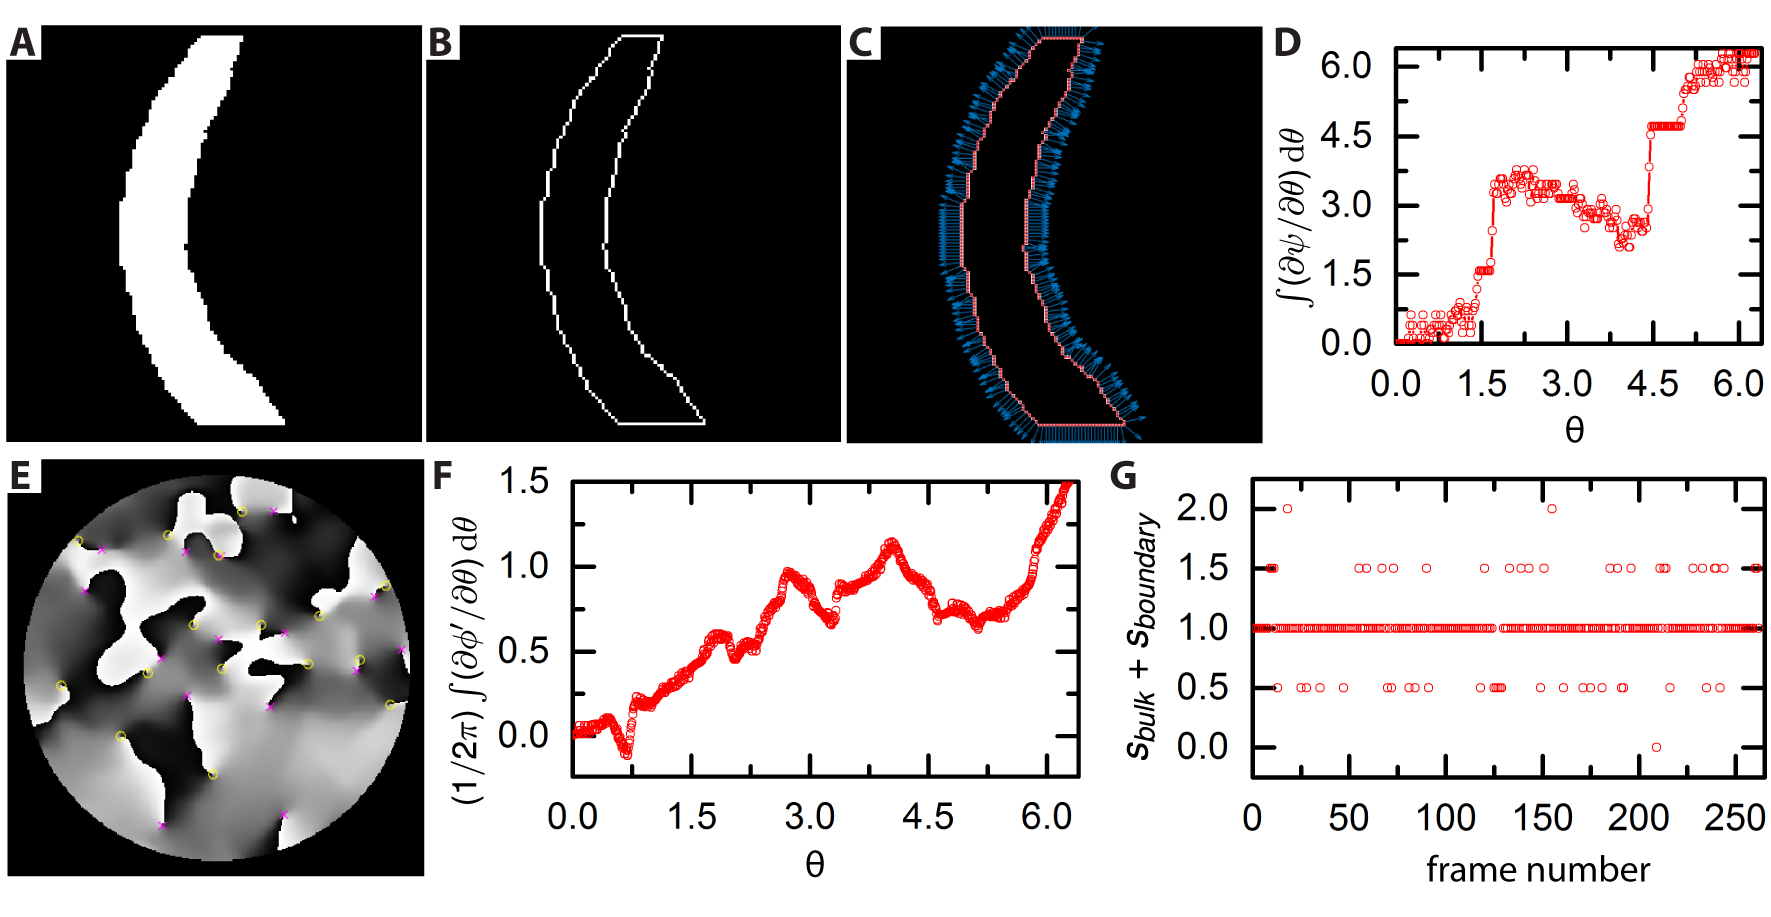
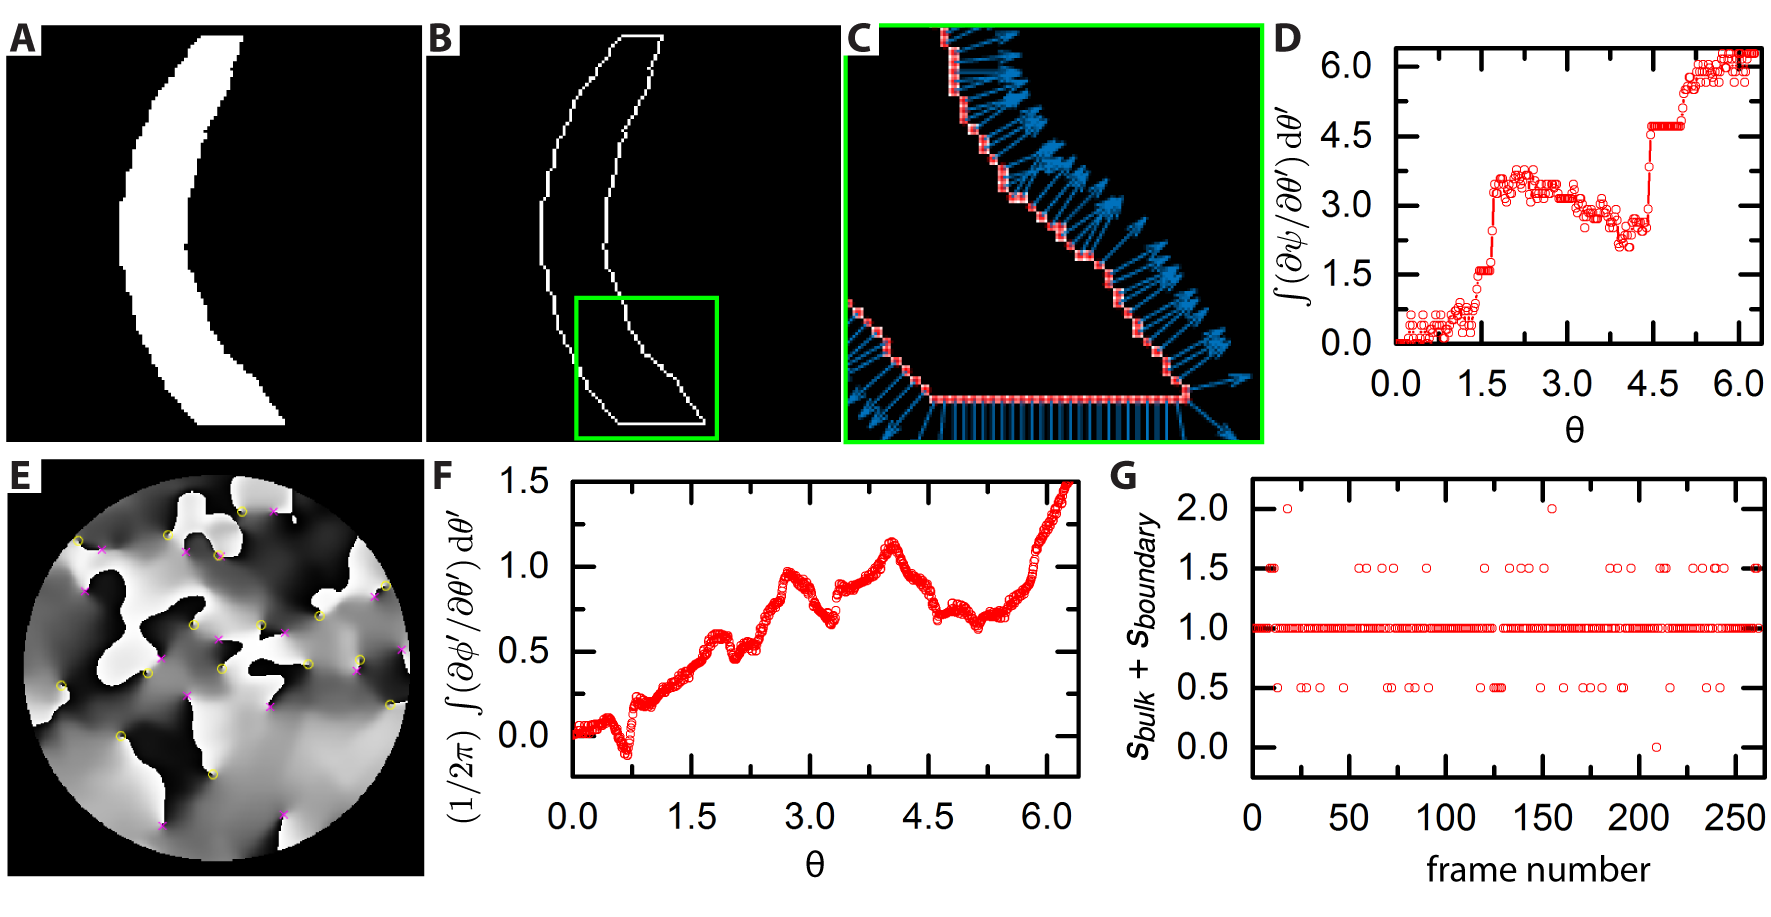
figure edits and reference

diff --git a/document/chapter3.tex b/document/chapter3.tex
@@ -18,9 +18,10 @@ Here, we consider how activity affects the interplay between nematic order, geom
   \caption{Interactions in extensile and contractile nematics.
   (A,C), Two-particle interaction for extensile (A) and contractile (C) mesogens.
   The arrows represent time.
-  (B,D), The homogeneous state is unstable to distortions, with (B) extensile nematics unstable to bend and (D) contractile nematics unstable to splay.
+  (B,D), The interactions in (A,C) applied to a collection of particles in (B,D), respectively.
+  The homogeneous state is unstable to distortions, with (B) extensile nematics unstable to bend and (D) contractile nematics unstable to splay.
   The instability leads to the formation of an $s = + 1/2$ and $s = -1/2$ defect pair, indicated by ${\color{red} \bullet}$,${\color{blue} \bullet}$, respectively.}\label{f:3-ActiveInteraction}
-\end{figure}\fxnote{Clarify panel D}
+\end{figure}
 
 Much like equilibrium nematics, the individual mesogens of active nematic materials are anisotropic and thus the material possesses a nematic phase; however, the addition of activity to nematic order modifies the interaction between the mesogens.
 With the exception of bacteria introduced into lyotropic liquid crystals~\cite{RN86}, to date the majority of experimental and theoretical work on active nematics has taken place in 2D.
@@ -671,8 +672,8 @@ Thus, we can determine if we have systematic error in our defect detection routi
   \centering
   \includegraphics{figures/C3/Ch3-Figs_EdgeChargeEx.png}
   \caption{Schematic illustration of boundary and bulk charge.
-  (A,B,C) An example director field in a circular region drawn in a fixed frame and the director field at the boundary drawn in the Frennet-Serret frame.
-  The director orientation $\phi$ in the fixed frame is taken counterclockwise from the horizontal and the director orientation $\phi'$ in the Frennet-Serret frame is taken clockwise from the horizontal.
+  (A,B,C) An example director field in a circular region drawn in a fixed frame and the director field at the boundary drawn in the Frenet-Serret frame.
+  The director orientation $\phi$ in the fixed frame is taken counterclockwise from the horizontal and the director orientation $\phi'$ in the Frenet-Serret frame is taken clockwise from the horizontal.
   For the defect-free director field in (A), integrating $\textrm{d}\phi$ from $\Theta = 0$ to $\Theta = 2\pi$ yields a $s_{bulk} = 0$, while integrating $\textrm{d}\phi'$ from $\Theta = 0$ to $\Theta = 2\pi$ yields a $s_{boundary} = 1$, such that $s_{bulk} + s_{boundary}=1$.
   Performing the same calculations for the director field containing the (B) $s = +1$ defect and (C) $s = -1/2$ defect yields $s_{bulk} + s_{boundary}= 1 + 0= 1$, and $s_{bulk} + s_{boundary}= -1/2 + 3/2 = 1$, respectively.}\label{f:3-EdgeChargeEx}
 \end{figure}
@@ -695,14 +696,14 @@ Finally, we calculate $\phi' = \psi-\phi$ and numerically evaluate Eq.~\ref{e:3-
   \centering
   \includegraphics{figures/C3/Ch3-Figs_EdgeChargeErr.png}
   \caption{Boundary charge and defect detection error on active nematic toroids.
-  (A-D) Validation of the Frennet-Serret frame.
-  For the example mask in (A), we find the (B) boundary, estimate the unit tangent vectors, and then rotate the tangent vectors by $-\pi/2$ to get the (C) unit normal vectors and complete the Frennet-Serret frame.
-  We check the Frennet-Serret frame by (C) integrating the change in the unit normal vector along the boundary, $\textrm{d}(\psi - \pi/2) = \textrm{d}\psi = (\partial \psi/\partial \theta) \textrm{d}\theta$, and see that the integral goes to $2 \pi$, as desired.
+  (A-D) Validation of the Frenet-Serret frame.
+  For the example mask in (A), we find the (B) boundary, estimate the unit tangent vectors, and then rotate the tangent vectors by $-\pi/2$ to get the (C) unit normal vectors and complete the Frenet-Serret frame.
+  We check the Frenet-Serret frame by (C) integrating the change in the unit normal vector along the boundary, $\int\limits_{0}^{\theta} \textrm{d}(\psi - \pi/2) = \int\limits_{0}^{\theta} \textrm{d}\psi = \int\limits_{0}^{\theta} (\partial \psi/\partial \theta') \textrm{d}\theta'$, and see that the integral goes to $2 \pi$ as $\theta$ goes to $2\pi$, as desired.
   (E) Circular region containing a director field from an active nematic toroid with $s = \pm 1/2$ defects found with our algorithm and labeled by (${\color{magenta} \times}$), (${\color{yellow} \circ}$), respectively, giving $s_{bulk} = \sum_i s_i = -1/2$.
-  (F) An integral of $\textrm{d}\phi'$ along the boundary yields $s_{boundary} = 3/2$.
+  (F) $\int\limits_{\theta = 0}^{2\pi} \textrm{d}\phi'$ along the boundary yields $s_{boundary} = 3/2$ as $\theta \rightarrow 2 \pi$.
   (G) $s_{bulk} + s_{boundary}$ for 262 frames evaluated using the region in (A) applied to a torus with $\xi = 2.4$ and $a = 268$ $\upmu$m.
   There are 76 frames with $s_{bulk} + s_{boundary} \neq 1$ and 186 frames with $s_{bulk} + s_{boundary} = 1$, leading to $P(error) = 0.29$ and mean$(error) = 0.026$.}\label{f:3-EdgeChargeErr}
-\end{figure}\fxnote{zoom in for panel C, change integrand to over phi' in D,E}
+\end{figure}
 
 We test our routine by first integrating the normal vectors along $\partial \Theta$, as shown in Figure~\ref{f:3-EdgeChargeErr}(D), finding $\oint_{\partial \Theta} \textrm{d}(\psi-\pi/2) = \oint_{\partial \Theta} \textrm{d}\psi = 2\pi$, as desired.
 We now consider a small circular region and validate the algorithm using director fields from our active nematic toroids, as shown in the example in Figure~\ref{f:3-EdgeChargeErr}(E).
@@ -832,7 +833,7 @@ The effect of adjusting the tuning constant for the various M-estimators is easi
   (A) The cost and weight function for a least-squares fit.
   (B-D) The cost and weight functions for a (B) Cauchy M-estimator, a (C) Fair M-estimator, and a (D) GMC M-Estimator, with the tuning parameter for the red curves set to yield 95\% efficiency on a standard normal, and the tuning parameter for the blue curve set to twice the value in the red curve.
   The least-squares estimator in (A) and the Fair estimator in (C) have everywhere convex cost functions, in contrast to the Cauchy and the GMC M-estimators in (B,D), respectively.}\label{f:3-CostFxn}
-\end{figure}\fxnote{italicize cost}
+\end{figure}
 \newpage
 \subsection{Fitting the Weingarten matrix on a surface}
 From a Monge parameterization $h(x,y)$ of a surface~\cite{RN35,RN23}, we start by computing the Delauney triangulation~\cite{RN34} such that every point or pixel in $h(x,y)$ is a vertex in the triangulation.
@@ -879,7 +880,7 @@ This additional information will eventually allow us to re-estimate $\mathbf{k}$
   $\mathbf{R}_{[0]}$ is the point of interest.
   $\mathbf{R}_{[1]}$ and $\mathbf{R}_{[2]}$ are an example pair of points close to the point of interest with $\Delta \mathbf{R}_{[1,2]} = \mathbf{R}_{[2]}-\mathbf{R}_{[1]}$ the displacement vector in the tangent plane of $\mathbf{R}_{[0]}$.
   $\mathbf{k}_{[1]}$ and $\mathbf{k}_{[2]}$ are the unit surface normal vectors associated to $\mathbf{R}_{[1]}$ and $\mathbf{R}_{[2]}$.}\label{f:3-CurvFitSchem}
-\end{figure}\fxnote{bracket the subscripts}
+\end{figure}
 
 We now have a system of three equations to fit with 5 parameters, as $\tensor{L}{_{12}} = \tensor{L}{_{21}}$.
 If we naively expand Eq.~\ref{e:3-Kfit2} directly into three equations,
@@ -950,7 +951,7 @@ Finally, we calculate the Gaussian curvature of at $\mathbf{R}_{[0]}$ taking $K 
   \caption{Example IRLS fit of the curvature at a point on a surface.
   (A,B) Residuals, weights, $\bm{\Lambda}$, $K$, and cost for the (A) Fair M-estimator and (B) GMC M-estimator over multiple iterations, with the iteration number to the left of the residuals.
   The 0$^{\rm th}$ iteration corresponds to the output from the initial least-squares fit.}\label{f:3-IRLSexample}
-\end{figure}\fxnote{change the font on cost}
+\end{figure}
 
 \subsection{Correcting the surface normal vectors}
 We use the fitting weights from the final iteration $(p)$ and the final values in $\bm{\Lambda}$ to correct our initial estimate of $\mathbf{k}_{[0]}$ using a weighted average~\cite{RN31}:
@@ -1099,7 +1100,7 @@ We then plot the relative root-mean-squared (RMS) fluctuations, $\displaystyle{\
 
 We see that like the time-averaged topological charge, all the data collapse onto a line, regardless of the $\xi$ and $a$ variation between the toroids.
 We take the weighted average of a linear fit on a log-log scale to the data from each individual toroid and find a final slope $-0.53 \pm 0.04$ and final intercept $0.02 \pm 0.04$.
-This means that $\displaystyle{\sqrt{\Delta N_{\Theta}^2}} \bigg / \displaystyle {\overbar{N}_{\Theta}} \sim \overbar{N}_{\Theta}^{-1/2}$, the expected result for an equilibrium system subject to number fluctuations~\fxnote{ref Pathria}, again suggesting that activity can play a role akin to temperature in equilibrium systems.
+This means that $\displaystyle{\sqrt{\Delta N_{\Theta}^2}} \bigg / \displaystyle {\overbar{N}_{\Theta}} \sim \overbar{N}_{\Theta}^{-1/2}$, the expected result for an equilibrium system subject to number fluctuations~\cite{RN311}, again suggesting that activity can play a role akin to temperature in equilibrium systems.
 \begin{figure}
   \centering
   \includegraphics{figures/C3/Ch3-Figs_ExpDistribution.png}
@@ -1196,7 +1197,7 @@ In addition, we perform a weighted average on the intercepts directly to get the
   $({\color{teal} \star})$ $\lambda' = 0.28$,
   with the horizontal line corresponding to the experimental value of (B) $C' = 4.3$ for the 144 $\upmu$M ATP toroids and (C) $C' = 6.3$ for the 36 $\upmu$M ATP toroids.
   In both plots, the vertical dashed line marks the crossing of the horizontal line and the $\lambda' = 0.31$ simulation curve, with the gray background giving the error due to the uncertainty in the $\lambda'$ for the respective experimental measurements.}\label{f:3-MatchParam}
-\end{figure}\fxnote{vertical line in panel A}
+\end{figure}
 
 We now return to the plot of $C'$ vs $v'_0$ and indicate our experimentally measured $C'$ values with a horizontal line, as seen in Figure~\ref{f:3-MatchParam}(B,C) for 144 $\upmu$M and 36 $\upmu$M ATP, respectively.
 We then consider our experimental values of $\lambda'$  and highlight the crossing point between the experimentally measured $C'$ values and the relevant simulation curve with a vertical dashed line.
